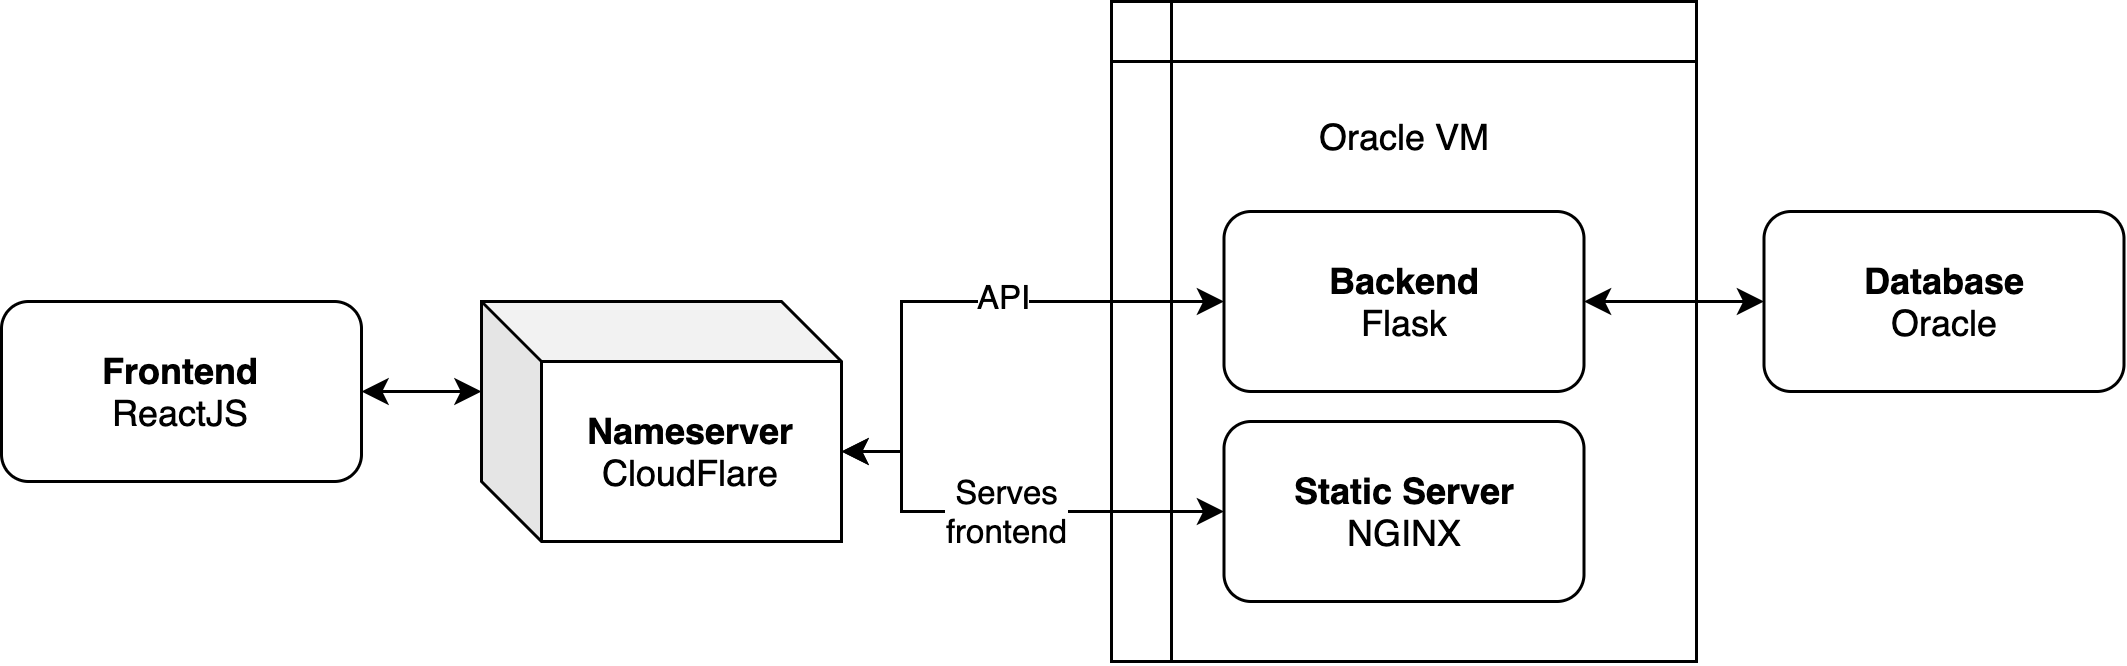
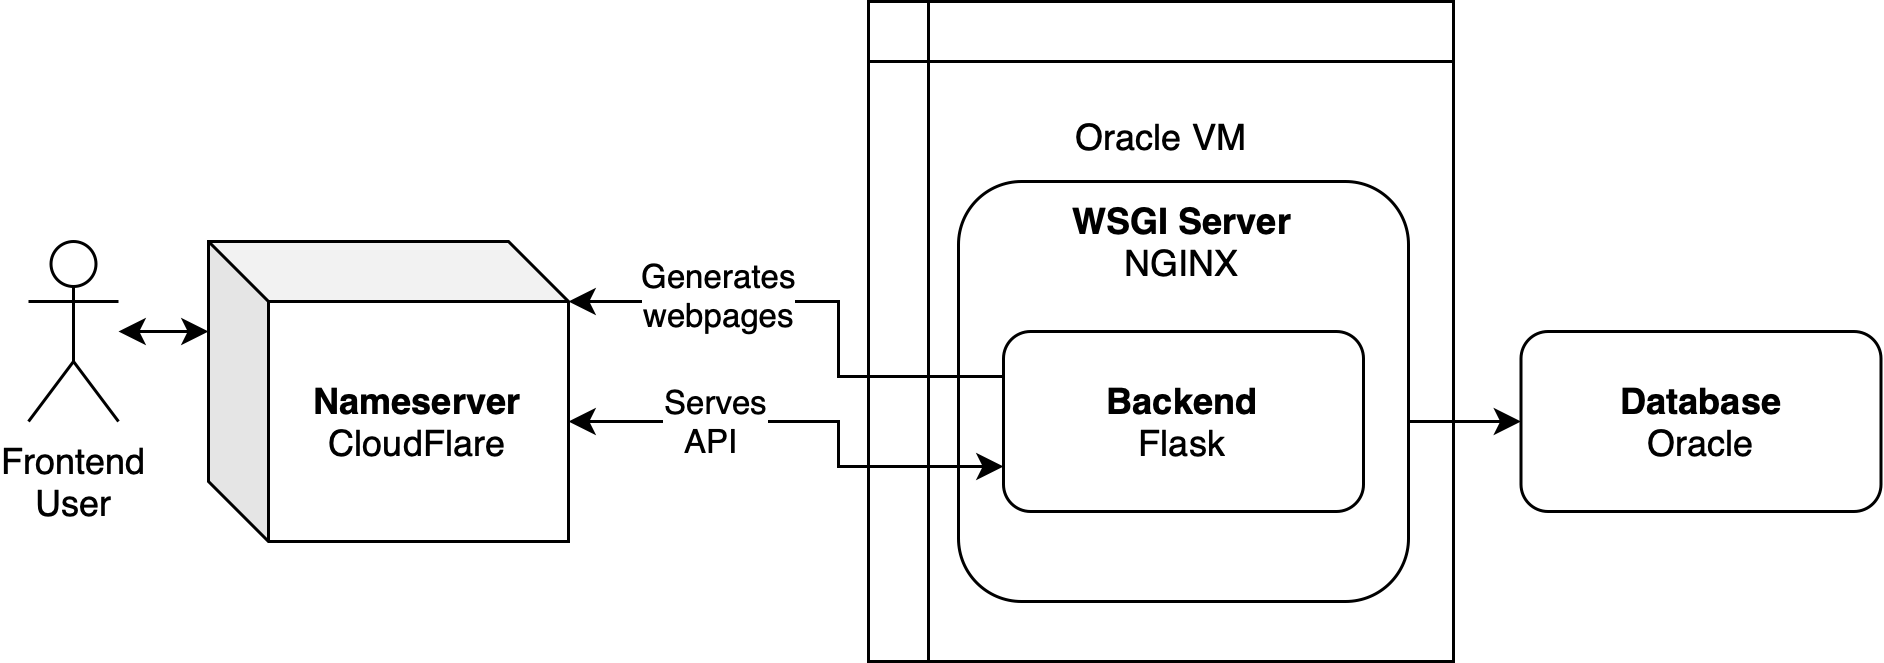
#111: updated main READMEs, added links, expanded explanations

diff --git a/docs/DatabasePing.py b/docs/DatabasePing.py
@@ -1,3 +1,9 @@
+"""
+DatabasePing.py
+
+Pings the database to keep it alive.
+"""
+
 import os
 import sys
 from time import sleep
@@ -8,7 +14,7 @@ from selenium.webdriver.chrome.service import Service
 from webdriver_manager.chrome import ChromeDriverManager
 
 def httpDatabaseConnection():
-    
+
     ser = Service(ChromeDriverManager().install())
     chrome_options = Options()
     chrome_options.add_argument('--headless')

diff --git a/docs/getting_started.md b/docs/getting_started.md
@@ -1,0 +1,40 @@
+# Getting Started
+
+This file details how to setup, and understand the "flow" of this project.
+
+Table of Contents:
+ - [Setup](#setup)
+ - [Developing](#developing)
+
+## Setup
+
+To get this server running, you need to follow these steps:
+
+ 1. [Download Oracle Instant Client](https://www.oracle.com/database/technologies/instant-client/downloads.html).  This is the software driver to connect to the Oracle database.
+ 2. Unzip the Oracle Instant Client, and put it somewhere on your computer.
+ 3. Wherever you unzipped the Oracle Instant Client, `cd` into the directory, and `pwd` to get the working directory.  Copy the Oracle Instant Client full path (e.g. `/User/you/lib/instant_client/`)
+ 4. Create a file, `edu_storybook/core/data/oracle_dir.txt` in this repo.
+ 5. Paste the directory filepath of Oracle Instant Client in the `.txt`.
+ 6. [Download our `StorybookFiles.json`](https://drive.google.com/file/d/1HVrLbauaq_3jEqMXVs9yUFw0UIGSiPDP/view?usp=sharing) and place in `edu_storybook/core/data/`.
+ 7. [Download our `StorybookFiles.pem`](https://drive.google.com/file/d/14r0GyoITrOjcbVH_RaezkB8TL7gzBTfR/view?usp=sharing) and place in `edu_storybook/core/data/`.
+ 8. Run `make setup` in the root of the repository (`/`) directory to the install the necessary Python dependencies.  Or just run `pip3 install -r requirements.txt` for Windows.
+    - If your `pip` command does not work (common problems with the `PATH` variable), then `python3 -m pip install -r requirements.txt` should be a foolproof command.
+ 9. [Install Poppler. **Follow the instructions on the page.**](https://pdf2image.readthedocs.io/en/latest/installation.html)
+    - If you are on MacOS, and if you have `brew`, you can do `brew install poppler`
+    - If you are on MacOS, and do not have `brew`, [install `brew`](https://brew.sh/), then `brew install poppler`.
+ 9. You're all done!  Now execute `make run` to start the server.
+    - **NOTE**: If it does not work, try `flask run`
+    - **NOTE**: If it still does not work, you can just run `app.py` directly. You will have to `cd edu_storybook` and then `python3 app.py`.
+ 10. Flask may have trouble running, so you will have to execute all of the `make run` commands one by one, copying from the makefile.
+
+## Developing
+
+To develop in this app, there are few things to understand that are unique to this project.
+
+ 1. All of the webpages are server-side generated, meaning the user is effectively stateless. The user is served each webpage, the data is purely held in the database, and a small amount of data in the user's login session cookie. Everything else is interpreted and computed by the Flask server.
+    - [**Please** read this article from Mozilla on server-side websites.](https://developer.mozilla.org/en-US/docs/Learn/Server-side/First_steps/Introduction) It's short, yet thorough, and should answer any questions you have.
+ 2. All of the webpages that are generated are only in the `edu_storybook/*.py` files, top-level `edu_storybook` module.
+ 3. The `edu_storybook.core` module holds functions used throughout the app.
+ 4. The `edu_storybook.api` module holds many endpoints responsible for a mix of server-side generated and AJAX behaviors, mostly AJAX.
+ 5. If you save (Win: `Ctrl + S`, MacOS: `Cmd + S`) any `edu_storybook` Python script file, it will reload the web server.
+ 6. If you save any template file in `edu_storybook/templates/`, it will **NOT** reload the web server.

diff --git a/docs/bucket.md b/docs/bucket.md
@@ -5,34 +5,15 @@ tests to ensure it's reliability and security.
 
 [If you're looking for the API endpoints, click here.](api.md)
 
-
-## Setup
-
-To get this server running, you need to follow these steps:
-
- 1. [Download Oracle Instant Client](https://www.oracle.com/database/technologies/instant-client/downloads.html).  This is the software driver to connect to the Oracle database.
- 2. Unzip the Oracle Instant Client, and put it somewhere on your computer.
- 3. Wherever you unzipped the Oracle Instant Client, `cd` into the directory, and `pwd` to get the working directory.  Copy the Oracle Instant Client full path (e.g. `/User/you/lib/instant_client/`)
- 4. Create a file, `edu_storybook/config/oracle_dir.txt` in this repo.
- 5. Paste the directory filepath of Oracle Instant Client in the `.txt`.
- 6. [Download our `StorybookFiles.json`](https://drive.google.com/file/d/1HVrLbauaq_3jEqMXVs9yUFw0UIGSiPDP/view?usp=sharing) and place in `backend/data/`.
- 7. [Download our `StorybookFiles.pem`](https://drive.google.com/file/d/14r0GyoITrOjcbVH_RaezkB8TL7gzBTfR/view?usp=sharing) and place in `backend/data/`.
- 8. Run `make setup` in this `backend/` directory to the install the necessary Python dependencies.  Or just run `pip3 install -r requirements.txt` for Windows.
- 9. [Install Poppler. **Follow the instructions on the page.**](https://pdf2image.readthedocs.io/en/latest/installation.html)
-    - If you are on MacOS and do not have `brew`, [install `brew`](https://brew.sh/).
- 9. You're all done!  Now execute `make run` to start the server.
- 10. Flask may have trouble running, so you will have to execute all of the `make run` commands one by one, copying from the makefile.
-
-
 ## How to Upload/Download/Delete/List from the Bucket
 
 ### Bucket Configurations Files
 
 Requirements/Steps to use the Chum-Bucket:
  - Download our oracle_bucket.json and Chum-Bucket.pem, and place the files in backend/data/. These files contain the information to connect to our Cloud Bucket. This will allow you to use the functions `upload_bucket_file` and `download_bucket_file` in `edu_storybook/bucket.py`.
- 
+
 ### Upload File to Cloud
- 
+
 To upload, the function `upload_bucket_file` is used. It is located in `edu_storybook/bucket.py`.
 
 To upload files, you will need "poppler". Review https://pdf2image.readthedocs.io/en/latest/installation.html to see how you can download poppler on your machine. MacOS can simply use "brew install poppler". Windows will have to download the package first (but this is in the link).
@@ -73,8 +54,8 @@ To delete a file in the bucket, the function `delete_bucket_file` is used. It is
 
 ## Notes
 
- - **Critical**: In `backend/data/` there needs to be a `oracle_key.json` file
- - **Critical**: In `backend/data/` there needs to be a `oracle_dir.txt` file
+ - **Critical**: In `edu_storybook/core/data/` there needs to be a `oracle_key.json` file
+ - **Critical**: In `edu_storybook/core/data/` there needs to be a `oracle_dir.txt` file
  - We are using Python `3.x`
  - Yes, getting the Oracle Database client working is an absolute pain in the caboose, and this is the way it is meant to be done
  - Our current test login is `test@udel.edu` and password `password`.

diff --git a/README.md b/README.md
@@ -6,11 +6,11 @@ A motivational storybook that helps students learn.
 
 ![Visualization of our tech stack](docs/tech-stack.png)
 
-Our web app uses Flask as our server-side framework, Oracle as our cloud platform, and CloudFlare as our firewall and DDOS protection. NGINX will act as a WSGI, and run multiple instances of our Flask app for reliability. Our backend will store data in a Oracle Cloud Database.
+Our web app uses Flask as our server-side framework (generating webpages and serving an API), Oracle as our cloud platform, and CloudFlare as our firewall and DDOS protection. NGINX will act as a WSGI, and run multiple instances of our Flask app for reliability. Our backend will store data in a Oracle Cloud Database.
 
 CloudFlare will cache the frontend, as well as monitor requests to the server for abuse.
 
-This website is entirely server-side generated.
+This website is entirely server-side generated with some AJAX elements.
 
 ## Goals
 
@@ -23,16 +23,18 @@ This website is entirely server-side generated.
 ## Directory Structure
 
  - `edu_storybook/`: Python Flask app to connect the database with the front end.
- - `test_edu_storybook/`: Unit tests for our Flask app using 
+ - `test_edu_storybook/`: Unit tests for our Flask app.
  - `docs/`: Documentation.
 
 ## Requirements
 
- - `Node >= 16.x`
  - `Python >= 3.x`
 
-## Documentation
+## Helpful Links
 
-[Click here to access our prepared documentation for users and developers.](https://docs.google.com/document/d/1CelmwQA7AdvfGEHCVrNK-iNF4JQG2vA7apNBMwooBfk/edit)
-
-[Click here to access our formal code documentation.](docs/README.md)
+ - Documentation
+    - [Click here to access our prepared documentation for users and developers.](https://docs.google.com/document/d/1CelmwQA7AdvfGEHCVrNK-iNF4JQG2vA7apNBMwooBfk/edit)
+    - [Click here to access our formal code documentation.](docs/README.md)
+    - [Click here to see generated documentation of our `edu_storybook` module.](docs/pdoc/index.html)
+ - [The website, itself.](https://www.edustorybooks.tk/)
+ - [Bootstrap v5 Documentation.](https://getbootstrap.com/docs/4.0/getting-started/introduction/)

diff --git a/docs/checklists/PR.md b/docs/checklists/PR.md
@@ -11,13 +11,22 @@ Before submitting a Pull Request (PR)
     - 4 spaces over tabs
     - Follow [PEP8](https://www.google.com/search?client=safari&rls=en&q=python+pep8&ie=UTF-8&oe=UTF-8)
     - Basically: `snake_case` for variables, functions, and methods, `CapsCase` for classes.
+- Security
+    - If writing a new endpoint.
+    - Ask: Who should be able to access this endpoint? Everyone, logged in users, or administrators?
+    - Make sure to use the `validate_login` function. Look for examples in `edu_storybook.api.admin`.
+- Test
+    - **When writing a new endpoint**: Use Postman/curl to send a test request to an endpoint. Screenshot it, and include it in the PR to prove it works.
+    - **When changing UI elements**: Please include a screenshot of the effects of changing a template/HTML/CSS. Optionally (and appreciated) is to include a before screenshot.
+
 
 ## Summarized Checklist
 
  - Write Python documentation.
  - Update READMEs, recursively up the parent folders.
  - Follow Python stlying (when in doubt, check surrounding code for context or clues).
- - ...
+ - Evaluate how much privilege a user should have to access an endpoint, and check it.
+ - Test, and document your testing.
 
 ## Example Pydoc String
 

diff --git a/docs/api.md b/docs/api.md
@@ -5,17 +5,17 @@ conditions and returns.
 
 Table of Contents:
  - [Meta Notes](#meta_notes)
- - [`book`](#book)
- - [`login`](#login)
- - [`password/forgot/`](#password-forgot)
- - [`password/reset/`](#password-reset)
- - [`admin/download/user/`](#admin-download-user)
- - [`admin/download/action/`](#admin-download-action)
- - [`admin/book/upload/`](#admin-book-upload)
- - [`admin/book/download/`](#admin-book-download)
- - [`admin/page/`](#admin-page)
- - [`/admin/book/grant/`](#admin-book-grant)
- - [`quiz/submit`](#quiz-submit)
+ - [`/book`](#book)
+ - [`/login`](#login)
+ - [`/password/forgot`](#password-forgot)
+ - [`/password/reset`](#password-reset)
+ - [`/admin/download/user`](#admin-download-user)
+ - [`/admin/download/action`](#admin-download-action)
+ - [`/admin/book/upload`](#admin-book-upload)
+ - [`/admin/book/download`](#admin-book-download)
+ - [`/admin/page`](#admin-page)
+ - [`/admin/book/grant`](#admin-book-grant)
+ - [`/quiz/submit`](#quiz-submit)
 
 ## Meta Notes
 

diff --git a/docs/hard_lessons.md b/docs/hard_lessons.md
@@ -3,3 +3,6 @@
 1. Do not commit binary files unless it's for documentation or permanently needed.
 2. `Sphinx` is the dominant documentation generator for Python, and it's so bloated and complicated to setup. `pdoc` is infinitely better.
 3. `string.Template` is a really basic find-and-replace templating engine, and it's miles better than other more complicated, bloated, and slow templating engines.
+4. [Checklists are helpful.](checklists/README.md)
+5. The new M1 chip is cool, but cx_Oracle (Oracle DB driver) is x86 only, still. [This article was really helpful for setting it up on M1.](https://mnml.blog/2021/12/connection-to-oracle-from-python-on-m1-mac/)
+6. If you are getting an `Internal Server Error` from `git push`, then close down the Flask app. I wasted about an hour trying to figure out that riddle.

diff --git a/docs/README.md b/docs/README.md
@@ -1,5 +1,19 @@
 # `storybook` Documentation
 
+Here are the main helpful links:
+
+ - [How to get started working on this project.](getting_started.md)
+ - Documentation
+     - [Generated documentation of the `edu_storybook` module.](pdocs/index.html)
+     - [Documentation on our bucket helper script.](bucket.md)
+     - [Manually created documentation for our API.](api.md)
+     - [Hard lessons learnt.](hard_lessons.md)
+ - Database
+     - [An explanation of all of the columns and tables in our database.](schema.md)
+     - [A diagram of our database.](Schema_Diagram.png)
+
+## Folder Inventory
+
 This is an explanation of our `docs/` folder:
 
  - [`action_labels.csv`](action_labels.csv): All the user actions that are recorded, their ID numbers, and their description.
